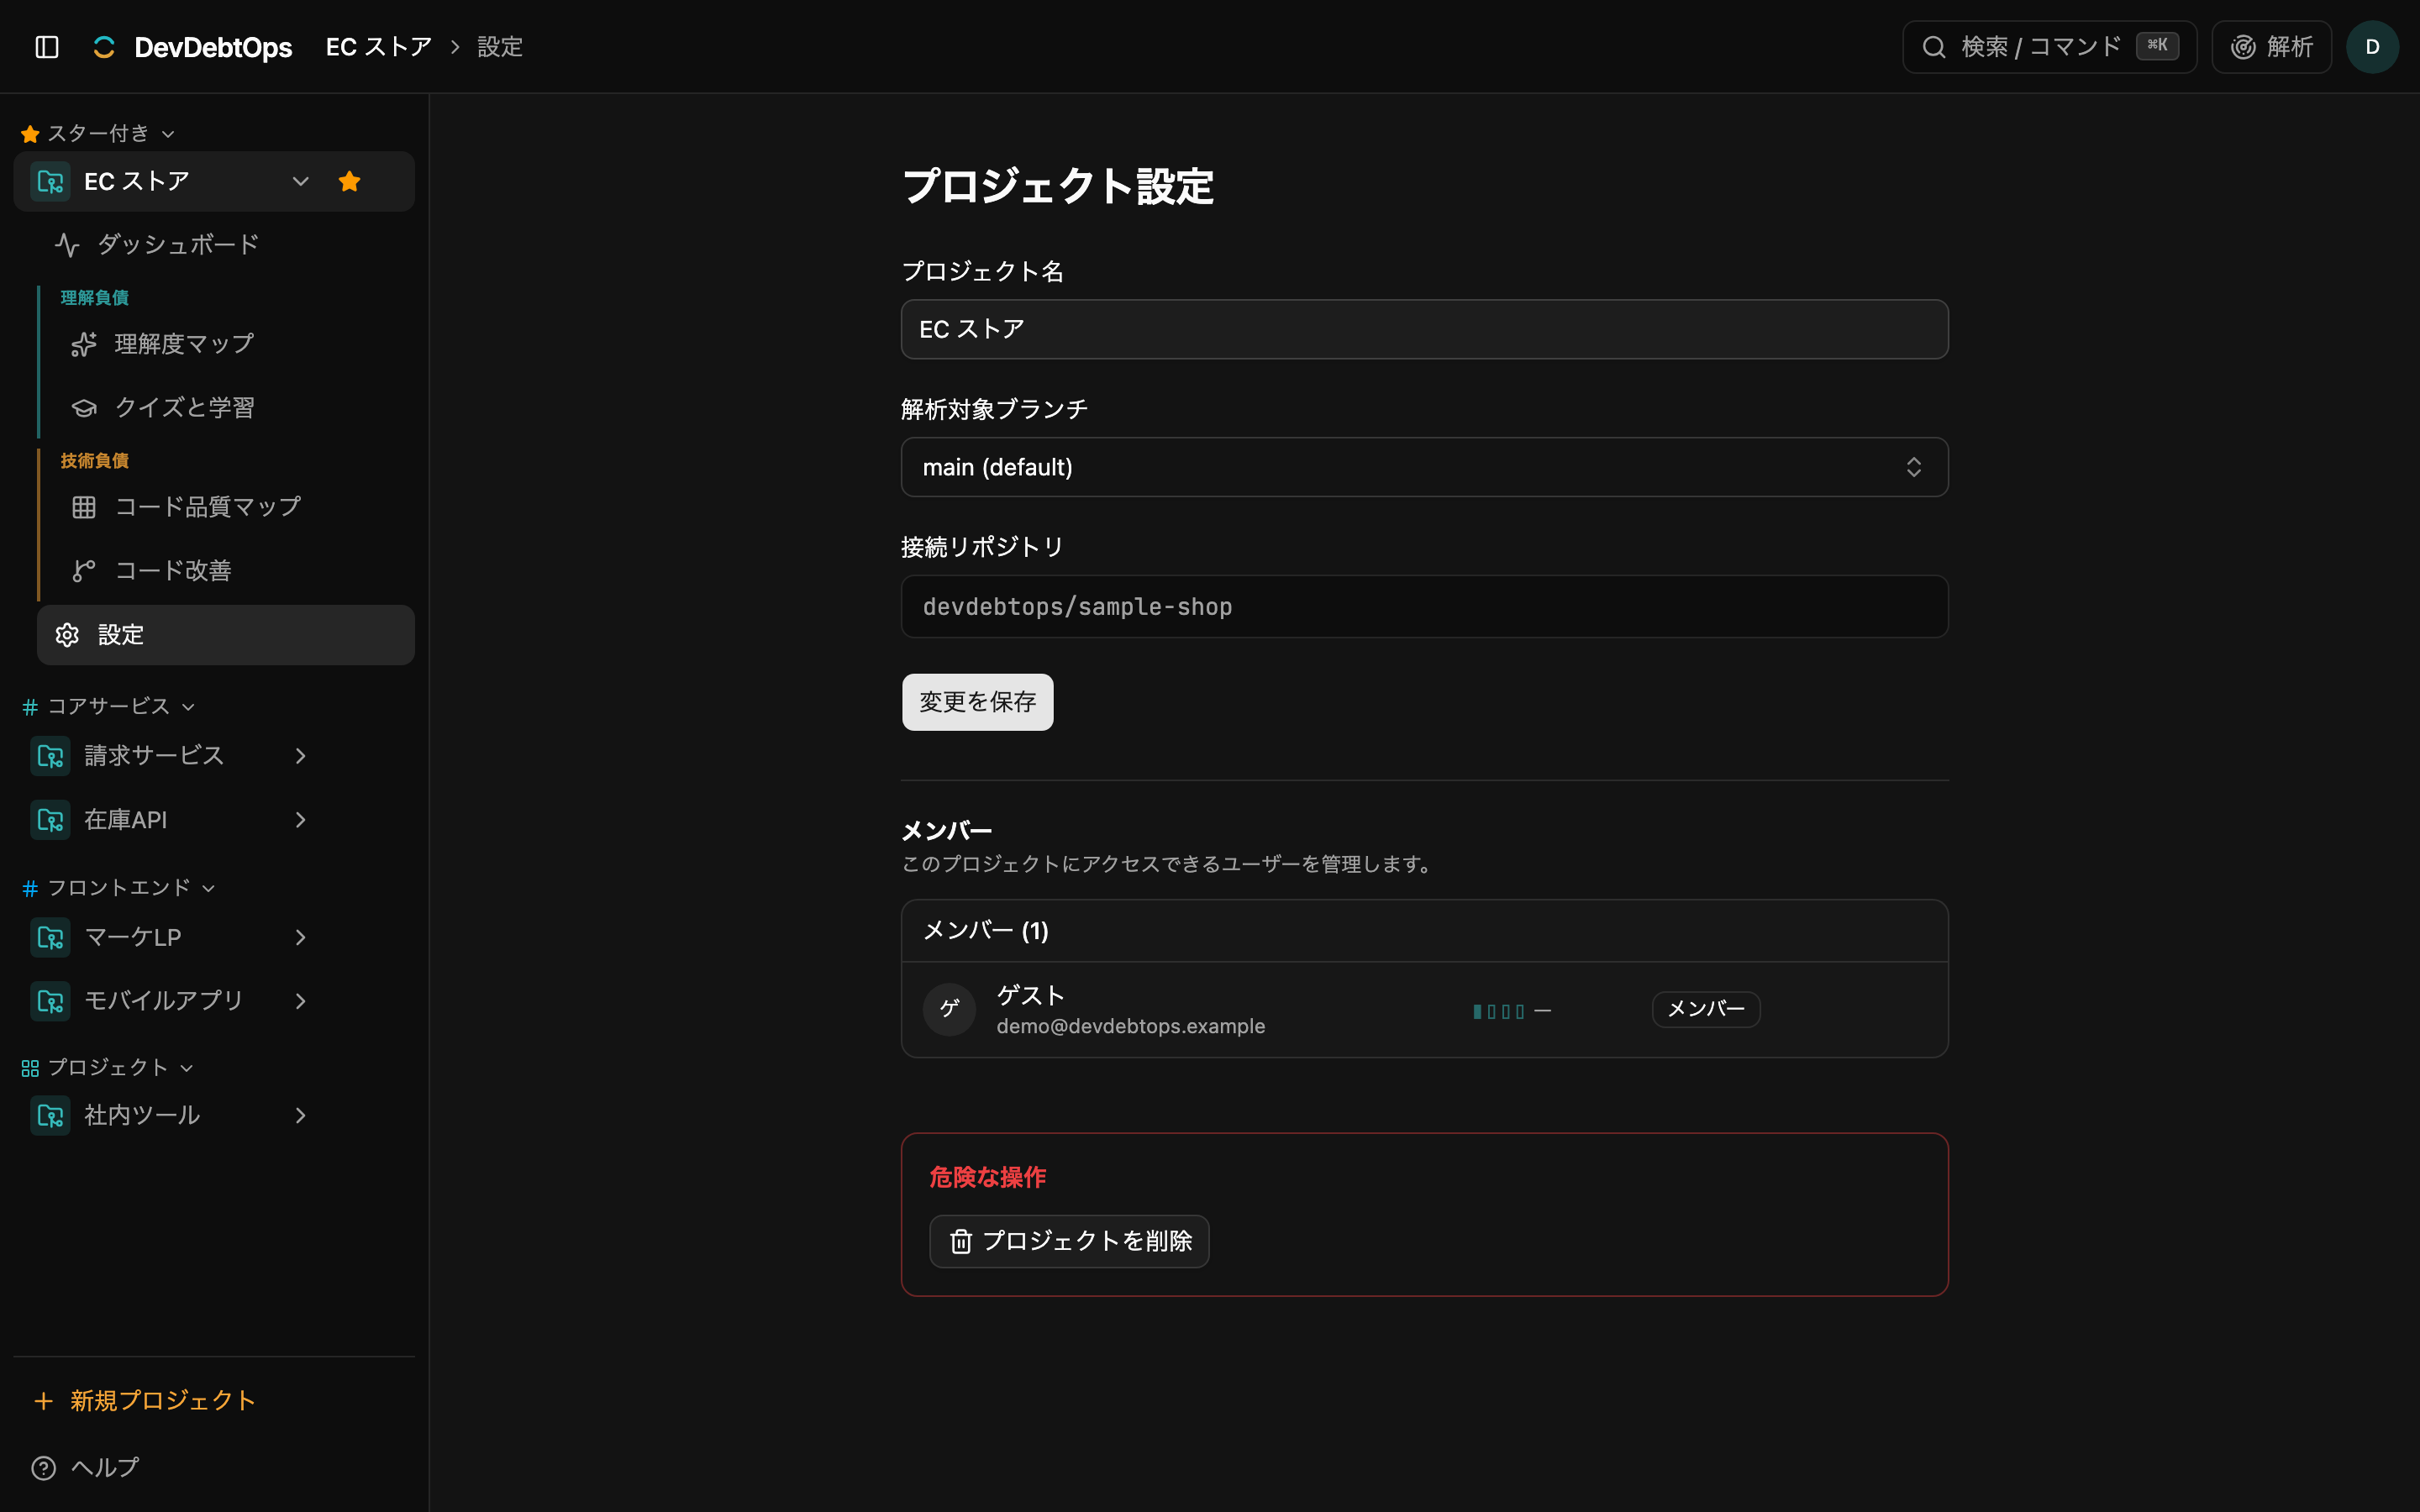
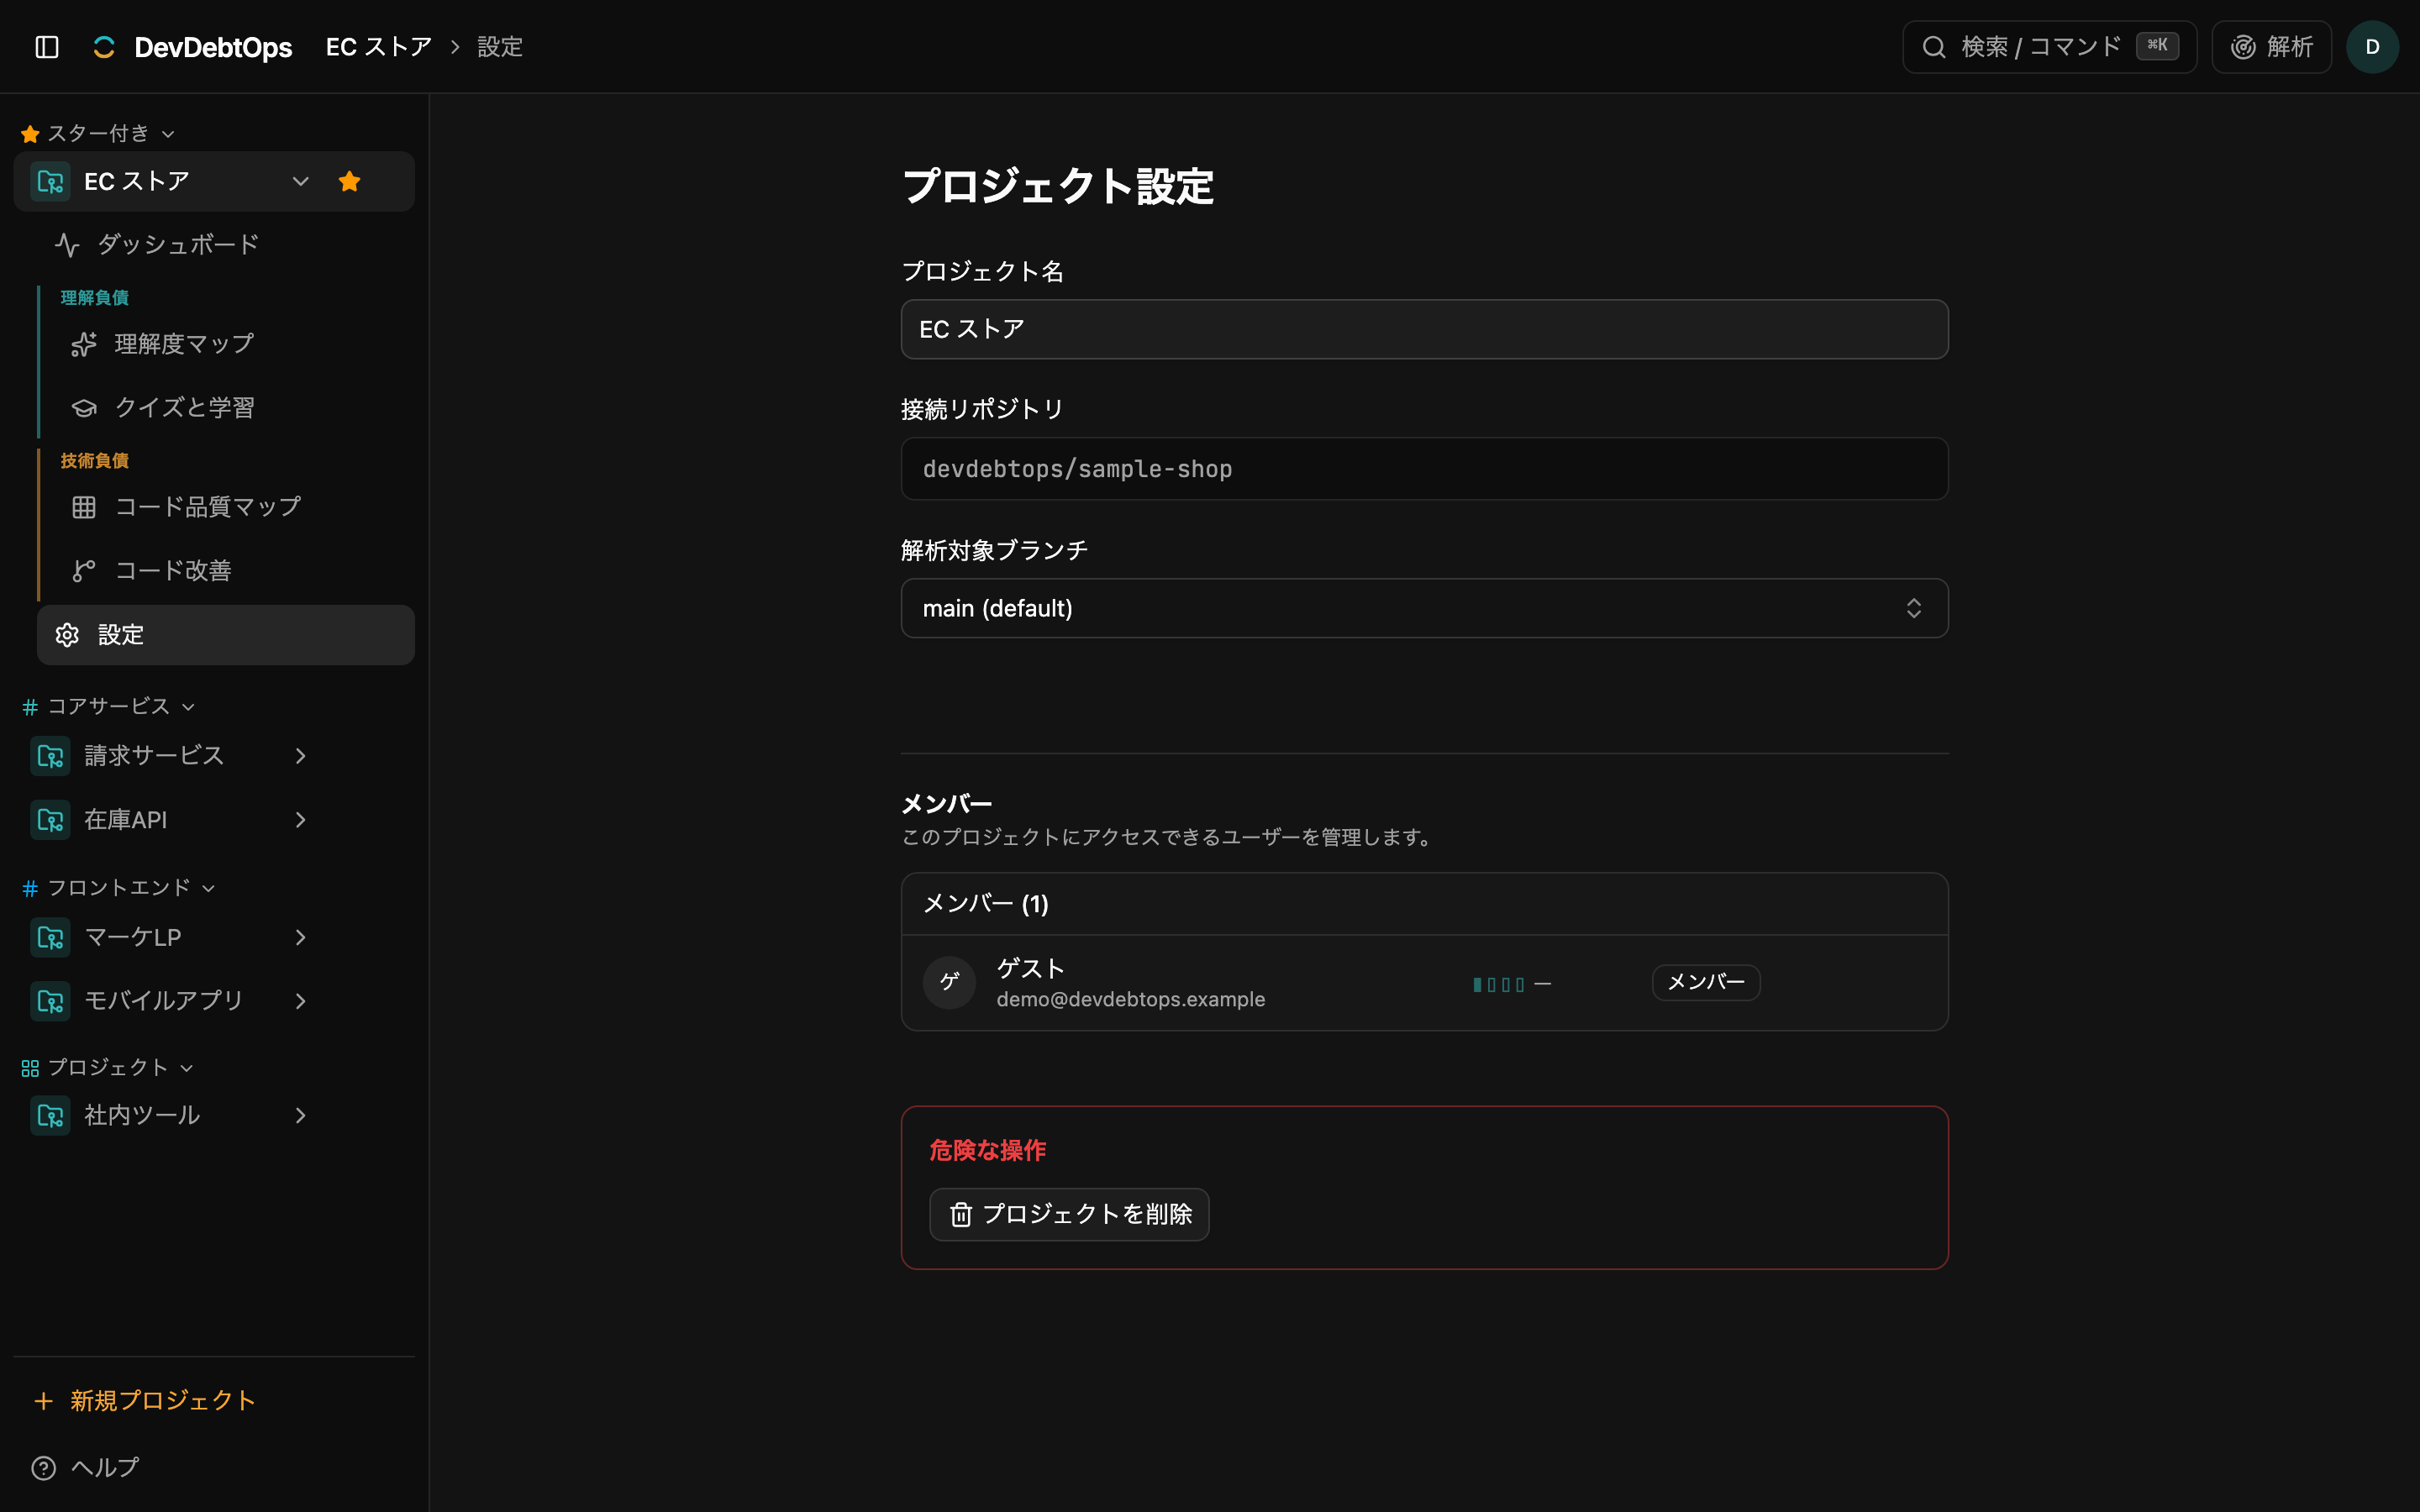
:lipstick: [update] 設定の自動保存・項目順と、ダッシュボードの優先リスト/内訳の入替
- プロジェクト設定: 保存ボタンを廃止し debounce 自動保存に。表示順を プロジェクト名 → 接続リポジトリ → 解析対象ブランチ に
- ダッシュボード: マトリクス右に「品質×理解の内訳」、推移グラフ横に「優先対応リスト」を配置（マトリクスとの関連で内訳を近接）

🤖 Generated with [Claude Code](https://claude.com/claude-code)

diff --git a/frontend/src/routes/[org]/[project]/settings/+page.svelte b/frontend/src/routes/[org]/[project]/settings/+page.svelte
@@ -22,8 +22,7 @@
   let name = $state("");
   let branch = $state("");
   let branches = $state<Branch[]>([]);
-  let saving = $state(false);
-  let savedAt = $state(false);
+  let saveStatus = $state<"idle" | "saving" | "saved" | "error">("idle");
   let error = $state<string | null>(null);
   let confirming = $state(false);
 
@@ -33,6 +32,18 @@
       name = current.name;
       branch = current.default_branch;
     }
+  });
+
+  // 自動保存（保存ボタン不要）: 名前/ブランチが現在値と変わったら debounce して保存する。
+  // current を読むため保存後の同期でも再評価され、値が一致したら何もしない（ループしない）。
+  $effect(() => {
+    const n = name.trim();
+    const b = branch.trim();
+    const c = current;
+    if (!c || !n || !b) return;
+    if (n === c.name && b === c.default_branch) return;
+    const t = setTimeout(() => void save(n, b), 600);
+    return () => clearTimeout(t);
   });
 
   // 既定ブランチをプルダウンで選べるよう、リポジトリのブランチ一覧を取得する。
@@ -60,21 +71,19 @@
     void members.load(orgSlug);
   });
 
-  async function save() {
+  async function save(n: string, b: string) {
     if (!current) return;
-    saving = true;
-    savedAt = false;
+    saveStatus = "saving";
     error = null;
     try {
-      const updated = await patchProject(orgSlug, projectSlug, { name: name.trim(), default_branch: branch.trim() });
+      const updated = await patchProject(orgSlug, projectSlug, { name: n, default_branch: b });
       project.setCurrent(updated);
       await project.loadList(orgSlug);
-      savedAt = true;
+      saveStatus = "saved";
       // slug は不変のままなので URL 遷移は不要（既定ブランチ/名前のみ変更）。
     } catch (e) {
       error = e instanceof Error ? e.message : m.project_settings_save_failed();
-    } finally {
-      saving = false;
+      saveStatus = "error";
     }
   }
 
@@ -101,10 +110,20 @@
 
   {#if current}
     <div class="mt-6 flex flex-col gap-5">
+      <!-- 表示順: プロジェクト名 → 接続リポジトリ → 解析対象ブランチ。保存ボタンなし（自動保存） -->
       <label class="flex flex-col gap-1.5">
         <span class="text-sm font-medium">{m.project_settings_name_label()}</span>
         <Input bind:value={name} />
       </label>
+
+      <div class="flex flex-col gap-1.5">
+        <span class="text-sm font-medium">{m.project_settings_repo_label()}</span>
+        <p
+          class="rounded-md border border-sidebar-border bg-surface-sunken px-3 py-2 font-mono text-sm text-muted-foreground"
+        >
+          {current.repo_full_name}
+        </p>
+      </div>
 
       <div class="flex flex-col gap-1.5">
         <span class="text-sm font-medium">{m.project_settings_branch_label()}</span>
@@ -127,24 +146,15 @@
         </DropdownMenu.Root>
       </div>
 
-      <div class="flex flex-col gap-1.5">
-        <span class="text-sm font-medium">{m.project_settings_repo_label()}</span>
-        <p
-          class="rounded-md border border-sidebar-border bg-surface-sunken px-3 py-2 font-mono text-sm text-muted-foreground"
-        >
-          {current.repo_full_name}
-        </p>
-      </div>
-
-      {#if error}
-        <p class="text-sm text-danger">{error}</p>
-      {/if}
-
-      <div class="flex items-center gap-3">
-        <Button onclick={save} disabled={saving || !name.trim() || !branch.trim()}>
-          {m.project_settings_save()}
-        </Button>
-        {#if savedAt}<span class="text-sm text-success">{m.project_settings_saved()}</span>{/if}
+      <!-- 自動保存ステータス -->
+      <div class="h-5 text-sm">
+        {#if error}
+          <span class="text-danger">{error}</span>
+        {:else if saveStatus === "saving"}
+          <span class="text-muted-foreground">{m.project_settings_saving()}</span>
+        {:else if saveStatus === "saved"}
+          <span class="text-success">{m.project_settings_saved()}</span>
+        {/if}
       </div>
 
       <!-- メンバー（組織メンバーシップを流用。プロジェクトにアクセスできるユーザーを管理） -->

diff --git a/frontend/src/lib/components/overview/overview-dashboard.svelte b/frontend/src/lib/components/overview/overview-dashboard.svelte
@@ -73,10 +73,10 @@
     {#if granularity === "file"}
       <div class="grid gap-4 lg:grid-cols-[2fr_1fr]">
         <DebtMatrix {orgSlug} {projectSlug} files={overview.files} />
-        <!-- 右列: 凡例は自然な高さ（コンパクト）にし、余白に優先対応リストを積む -->
+        <!-- 右列: 凡例（コンパクト）+ マトリクスと同じ 2 軸の象限内訳。余白を使って分布を示す -->
         <div class="flex flex-col gap-4">
           <QuadrantLegend {orgSlug} {projectSlug} />
-          {@render priorityCard()}
+          <QuadrantBreakdown {orgSlug} {projectSlug} files={overview.files} />
         </div>
       </div>
     {:else}
@@ -108,13 +108,13 @@
     </StatCard>
   </div>
 
-  <!-- 推移グラフ。file 粒度では横長になりすぎないよう象限内訳を隣に、feature/folder では優先対応リストを隣に -->
+  <!-- 推移グラフ。横長になりすぎないよう優先対応リストを隣に置く（マトリクス右は象限内訳に集約） -->
   {#if granularity === "file"}
     <div class="grid gap-4 lg:grid-cols-[2fr_1fr]">
       <div class="rounded-lg border bg-card p-4" data-tour="overview-trend">
         <DebtTrendStrata trend={overview.trend} />
       </div>
-      <QuadrantBreakdown {orgSlug} {projectSlug} files={overview.files} />
+      {@render priorityCard()}
     </div>
   {:else}
     <div class="grid gap-4 lg:grid-cols-2">